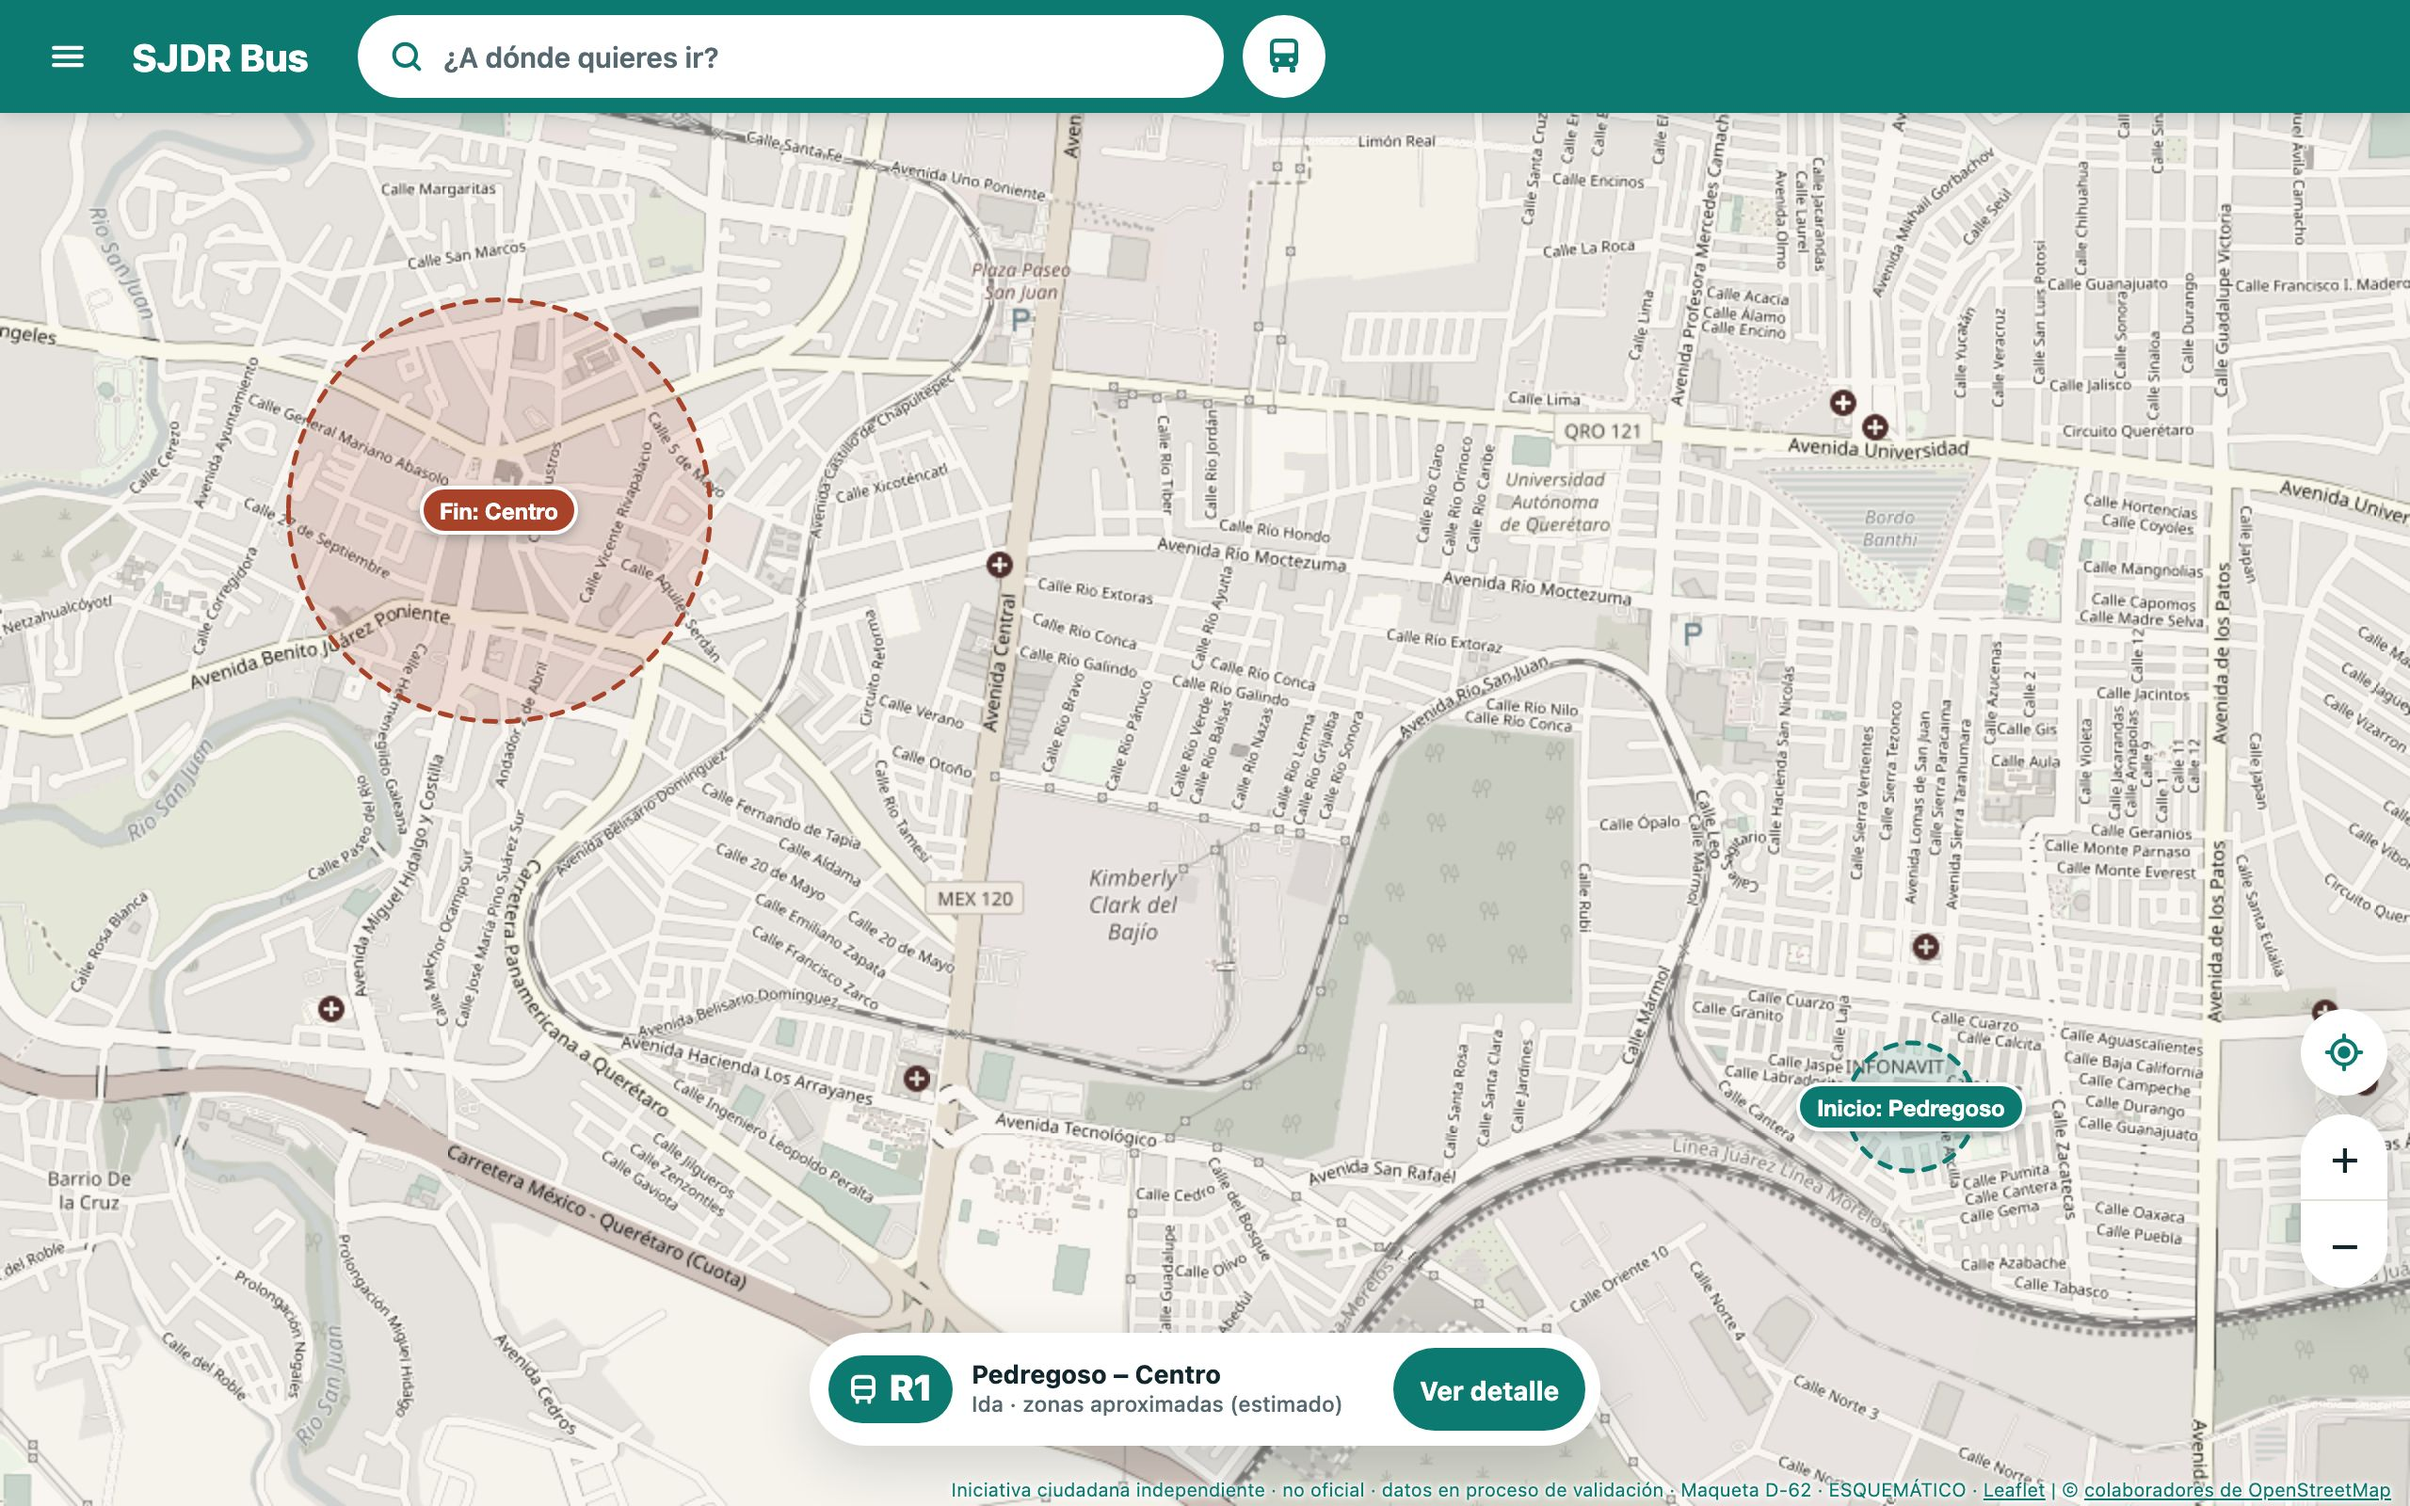
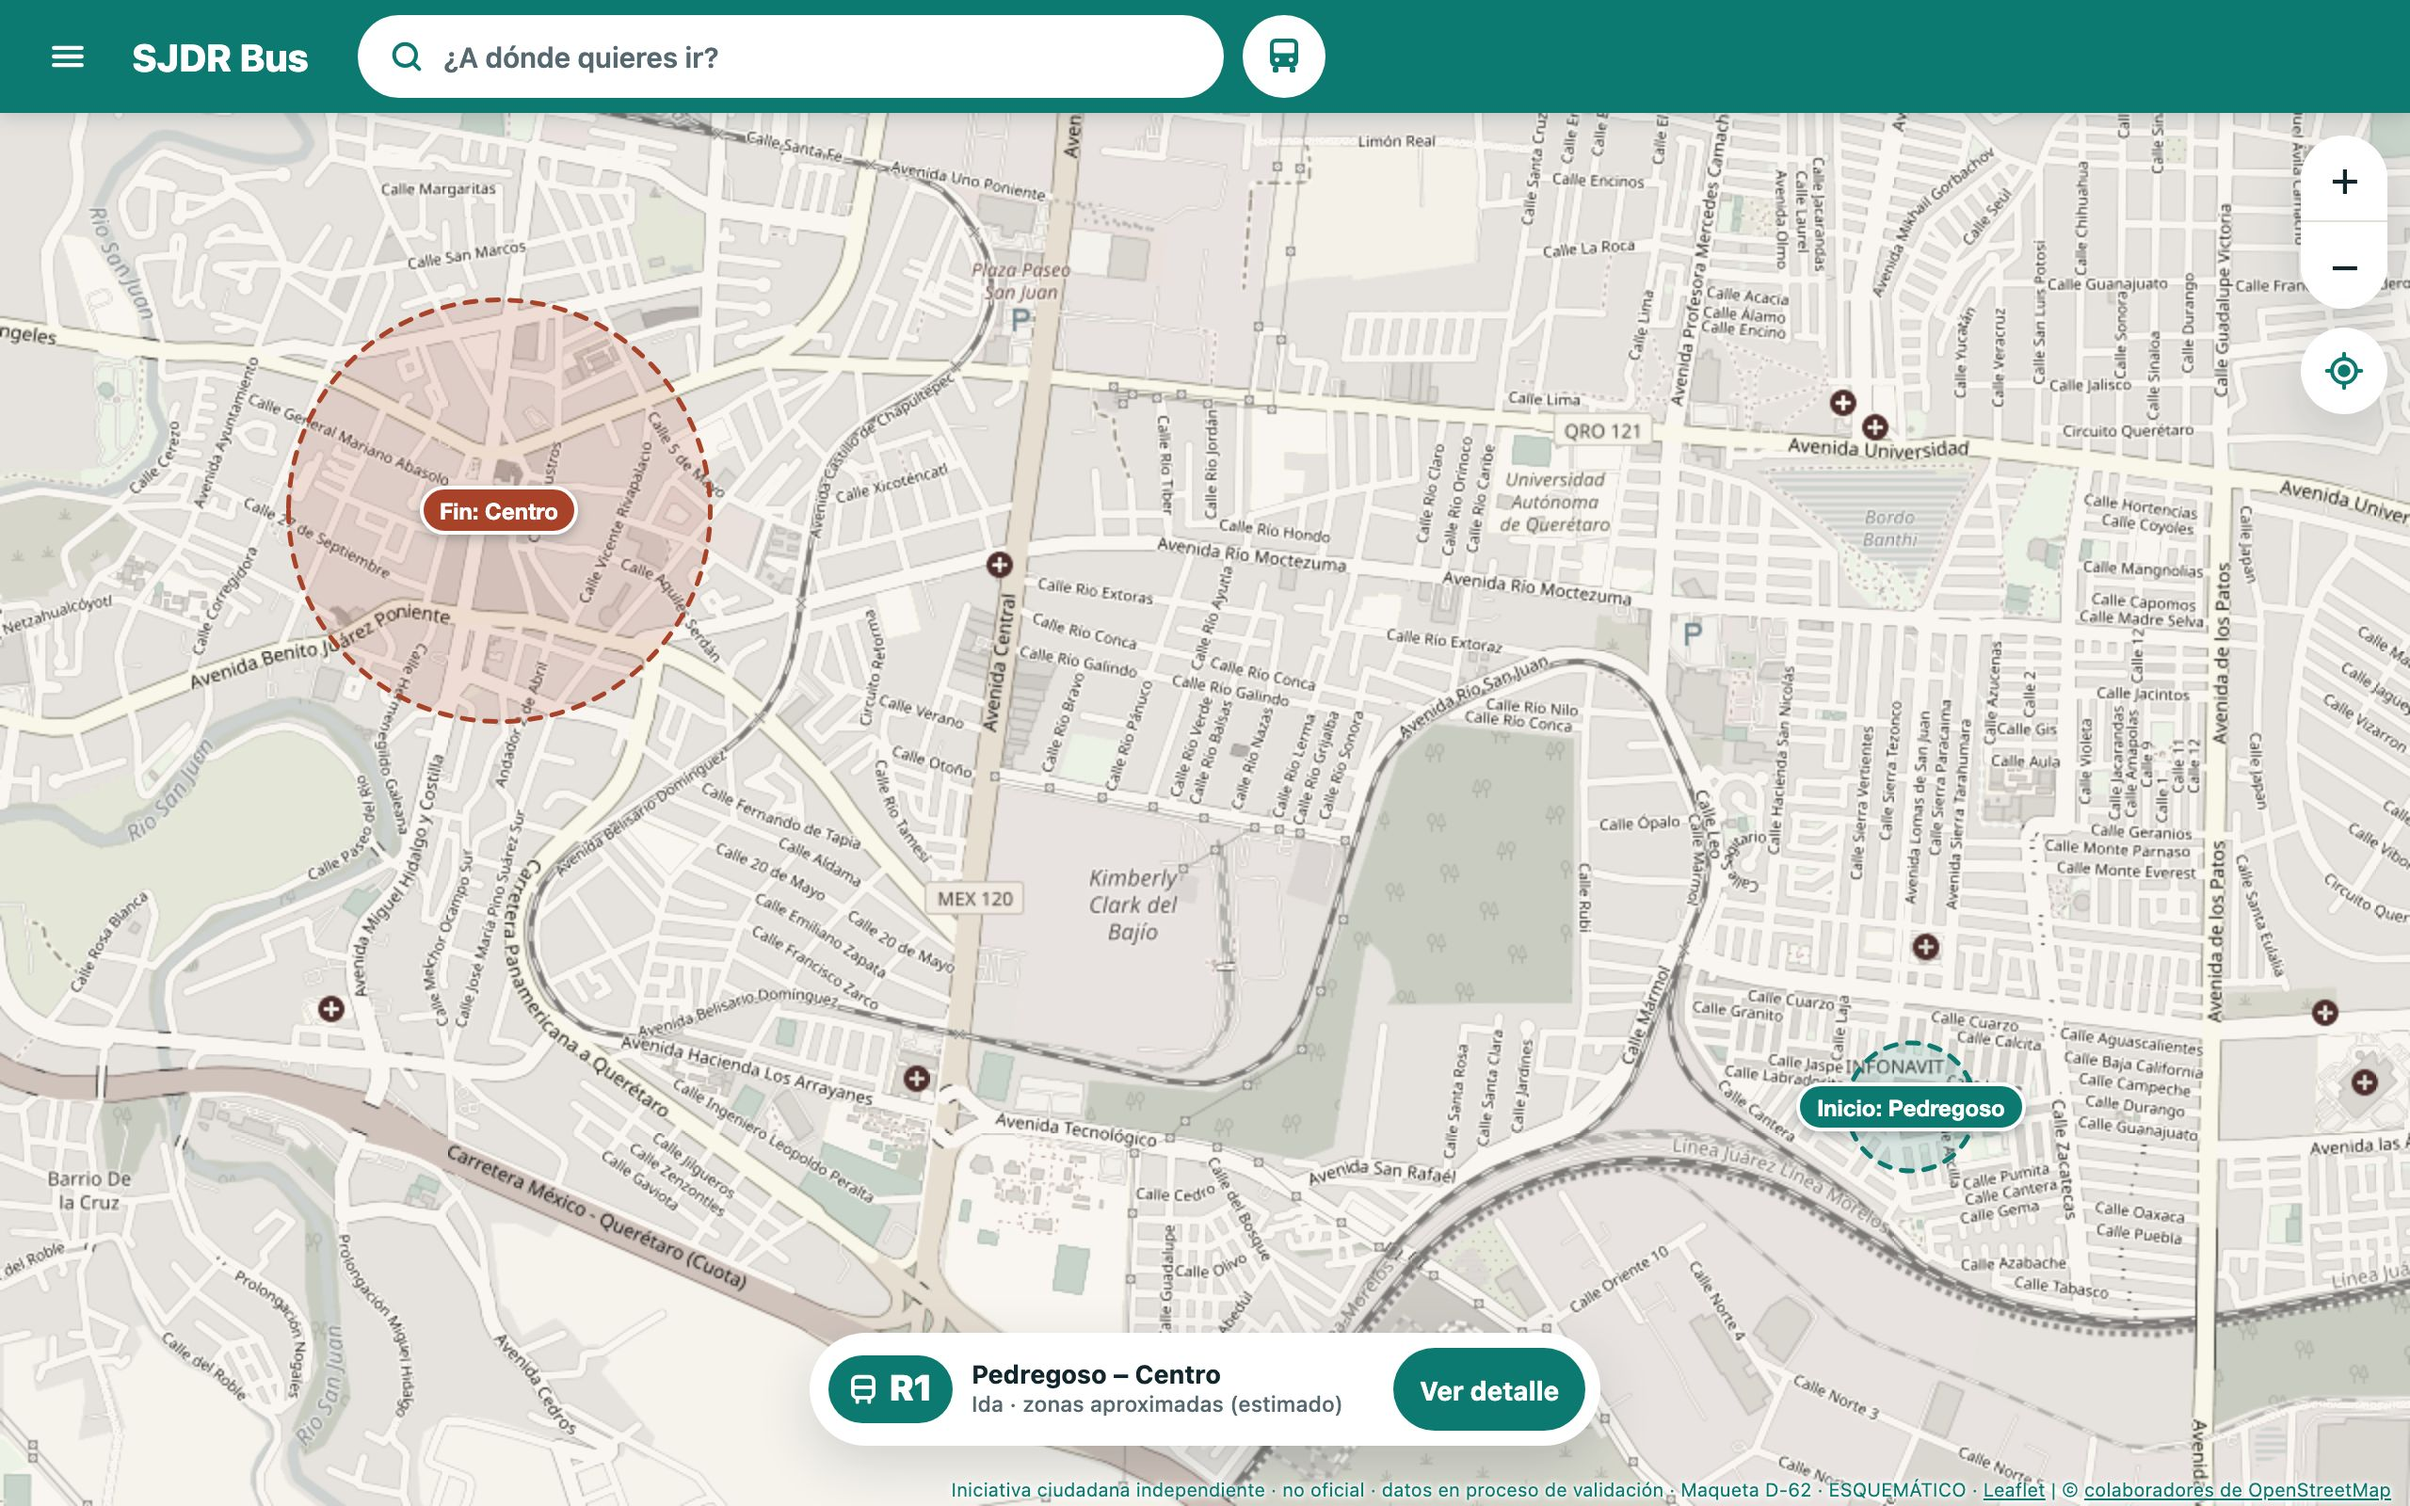
B2 · E-03 · D-62 ajuste: en computadora el zoom y el círculo van arriba (primero «+ / −», abajo el círculo); acostado como se propuso

Changed region(s): [[0.9375, 0.0938, 1.0, 0.2812], [0.9375, 0.6875, 1.0, 0.875]]

diff --git a/docs/maquetas/d62/maqueta.html b/docs/maquetas/d62/maqueta.html
@@ -324,11 +324,14 @@ button { font: inherit; color: inherit; }
 }
 
 /* D-62 (Miguel, 22 nov 2026, 3:39 pm): el círculo «mi ubicación» también acostado y
-   en computadora. El zoom no se mueve de donde lo dejaron D-58 y D-60.
-   Computadora: el círculo va arriba del zoom, con 10 px de espacio (columna como en
-   parado). Acostado: va a la izquierda del zoom, alineado con su parte de abajo, con
-   10 px de espacio (medido: en columna no cabe a 844 × 212, se encimaría con el
-   botón de paradas). */
+   en computadora. Ajuste (3:43 pm): en computadora el zoom y el círculo van arriba a
+   la derecha, como en parado (primero «+ / −», abajo el círculo), 12 px bajo la barra
+   verde. Acostado: el zoom no se mueve (D-60) y el círculo va a la izquierda del zoom,
+   alineado con su parte de abajo, con 10 px de espacio (medido: en columna no cabe a
+   844 × 212, se encimaría con el botón de paradas). */
+@media (min-width: 768px) and (min-height: 501px) {
+  .leaflet-top.leaflet-right { margin-top: 2px; }
+}
 .leaflet-bottom.leaflet-right .ubicame {
   width: 46px; height: 46px; margin: 0 max(12px, env(safe-area-inset-right)) 10px 0; padding: 0;
   border: 0; border-radius: 50%; background: var(--tarjeta); box-shadow: var(--sombra);
@@ -525,17 +528,18 @@ const Ubicame = L.Control.extend({
   },
 });
 const ubicame = new Ubicame();
+const acostado = matchMedia('(max-height: 500px)');
 function acomodarControles() {
-  // D-62: el círculo en los tres. En las esquinas de abajo Leaflet pone arriba el
-  // último control agregado: zoom primero y círculo después = círculo arriba del zoom.
+  // D-62 ajuste (Miguel, 3:43 pm): parado y computadora, arriba a la derecha (primero
+  // «+ / −» y abajo el círculo); acostado, abajo, el círculo a la izquierda del zoom.
   ubicame.remove();
-  const lugar = parado.matches ? 'topright' : 'bottomright';
+  const lugar = acostado.matches ? 'bottomright' : 'topright';
   zoomCtl.setPosition(lugar);
   ubicame.options.position = lugar;
   ubicame.addTo(mapa);
 }
 acomodarControles();
-parado.addEventListener('change', acomodarControles);
+acostado.addEventListener('change', acomodarControles);
 document.body.classList.add('t-' + (new URLSearchParams(location.search).get('tarjeta') || 'suave')); // D-58 aprobada: suave
 // D-59, 1: Safari de iPhone ignora user-scalable=no; se frena el pellizco de la página.
 for (const ev of ['gesturestart', 'gesturechange']) document.addEventListener(ev, (e) => e.preventDefault(), { passive: false });

diff --git a/docs/DECISIONES.md b/docs/DECISIONES.md
@@ -1822,4 +1822,10 @@ Miguel).
 - **Medido** (`docs/maquetas/d62/capturas/`, con y sin ruta, a 390 × 844, 844 × 280,
   844 × 212 y 1280 × 800): el círculo no se encima con el zoom, el botón de paradas, el
   chip de la ruta ni el pie, y el zoom queda donde estaba.
+- **Ajuste (Miguel, 22 nov 2026, 3:43 pm):** acostado, aprobado como se propuso. En
+  computadora el zoom y el círculo van **arriba** a la derecha, primero «+ / −» y abajo
+  el círculo (como en parado). Medido a 1280 × 800: el zoom empieza 12 px bajo la barra
+  verde y el círculo 10 px bajo el zoom; no se enciman con el chip de la ruta. Esto
+  cambia el lugar del zoom en computadora que había dejado D-58 (abajo), por pedido de
+  Miguel. Maqueta y capturas actualizadas en `docs/maquetas/d62/`.
 - **Decide:** Miguel.
